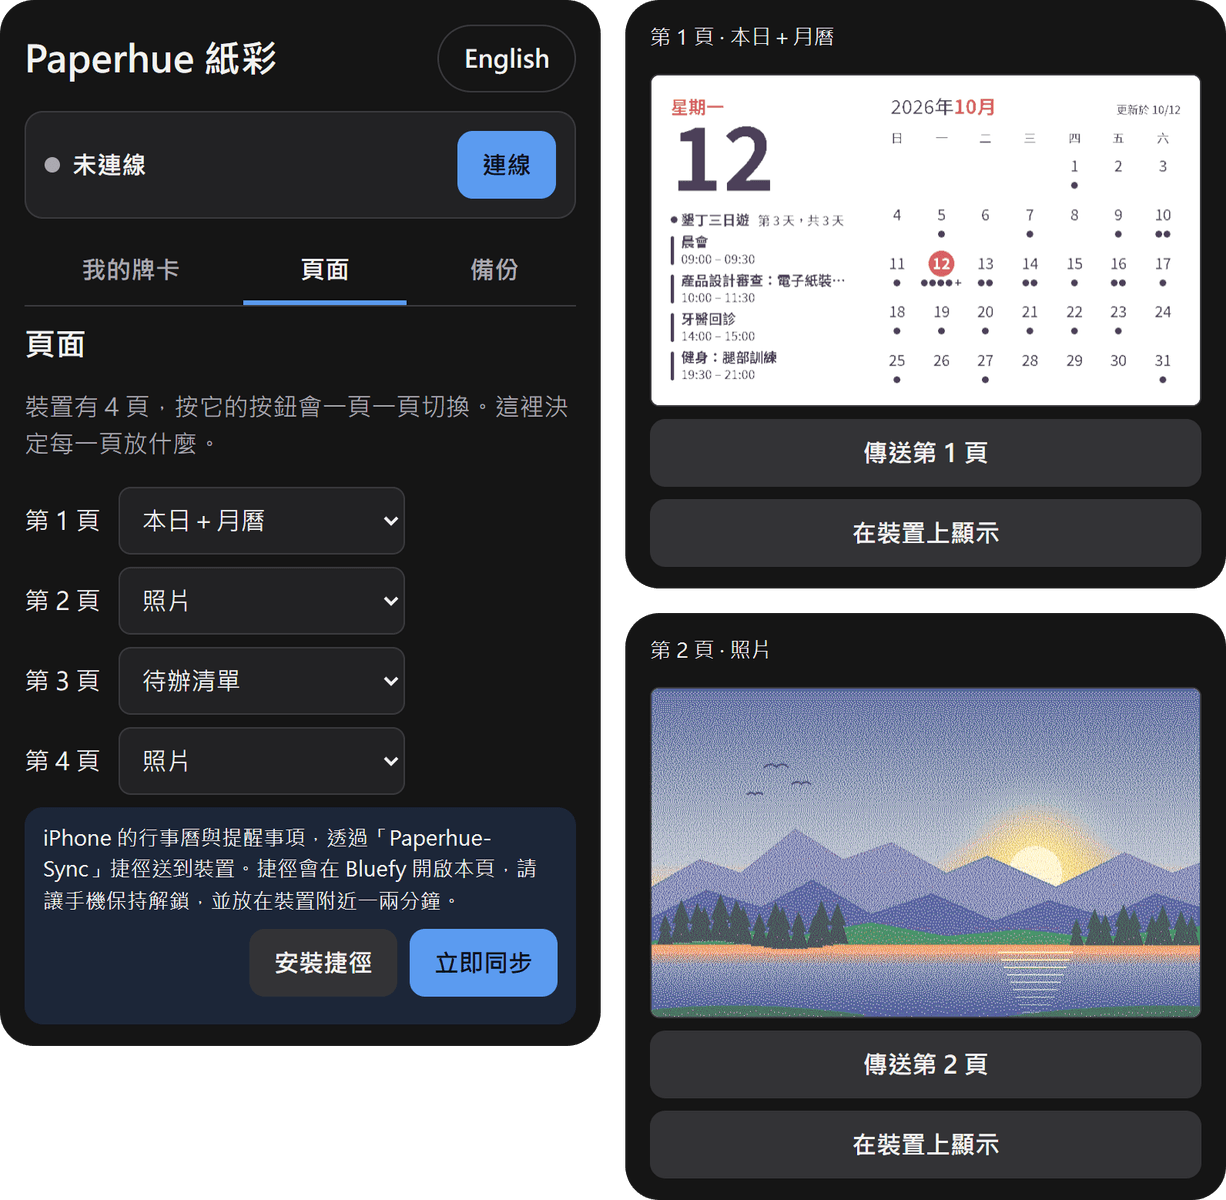
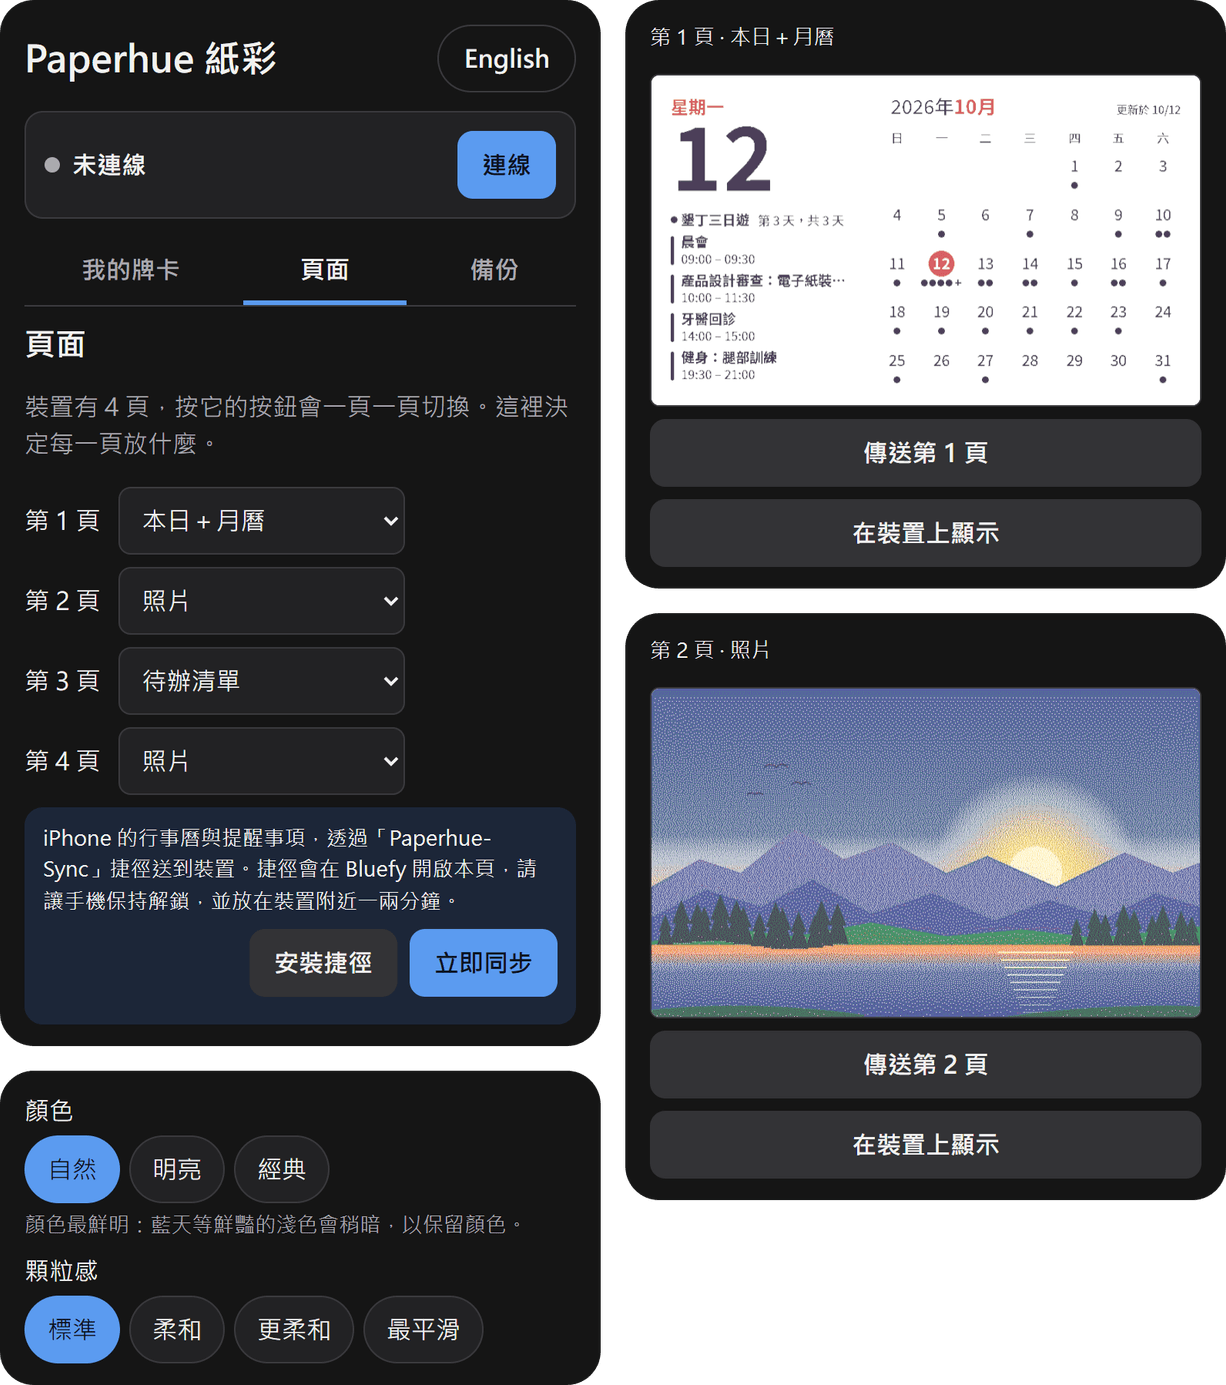
docs: three colour choices in the READMEs; screenshots with the picker line
The Colours bullet in both READMEs describes 自然 / 明亮 / 經典 =
Natural / Bright / Classic in the shared/LANGUAGE.md wording, and the grain
rule (from Classic to Natural or Bright sets Grain to Standard).

Windows and phone README screenshots retaken from this branch with generated
data: 顏色 自然 with its description line, 顆粒感 標準. The phone shot now
also shows the Colours and Grain pickers under the Shortcut card (they sit
at the bottom of Pages), at the same scale and width as before, so it is
taller; its alt text mentions them.

Claude-Session: https://claude.ai/code/session_01F9GxMescFT9Y7bqdSwmXTA

diff --git a/README.md b/README.md
@@ -199,13 +199,14 @@ page's **Show** menu picks **Photo**, **Today + month**, **Today + week**,
      This is the default. **Adjust crop…** (below) chooses which part.
    - **Show all (white margins)**: the whole photo, with white borders.
    - **Colours**: how a photo's colours are matched to the panel's.
-     **Natural** (the default) keeps the photo's colours and brightness as
-     closely as the panel allows; light, vivid colours such as a blue sky
-     come out a little darker so they stay colourful. **Classic** is the
-     lighter look of
-     Paperhue 0.3, and keeps a picture already drawn in the seven pure
-     colours exactly as it is. Changing to **Natural** sets **Grain** to
-     **Standard**; you can change it afterwards.
+     **Natural** (the default) gives the most colour: light, vivid colours
+     such as a blue sky come out a little darker to keep their colour.
+     **Bright** keeps the photo's brightness, so those colours lean white
+     (this was Natural in Paperhue 0.4.0 and 0.4.1). **Classic** is the
+     original method of Paperhue 0.3: lighter overall, and a picture already
+     drawn in the seven pure colours is kept exactly as it is. Changing from
+     **Classic** to **Natural** or **Bright** sets **Grain** to **Standard**;
+     you can change it afterwards.
    - **Grain**: how the seven colours are mixed into finer shades.
      **Standard** (the default) keeps the most detail; **Soft**, **Softer**
      and **Smoothest** give calmer, less grainy pictures with more visible
@@ -436,7 +437,7 @@ photo page its photo and send it, and switch the device to a page with
 **Grain** work as on Windows (see
 [Putting photos on the device](#putting-photos-on-the-device)).
 
-![Paperhue on an iPhone, in Pages: what each of the four pages shows, then page 1 (Today + month) and page 2 (a photo), each with its preview in the device's seven colours and Show on device](docs/img/phone-app.en.png)
+![Paperhue on an iPhone, in Pages: what each of the four pages shows and the Colours and Grain choices, then page 1 (Today + month) and page 2 (a photo), each with its preview in the device's seven colours and Show on device](docs/img/phone-app.en.png)
 
 #### 1. Set up Bluefy
 
